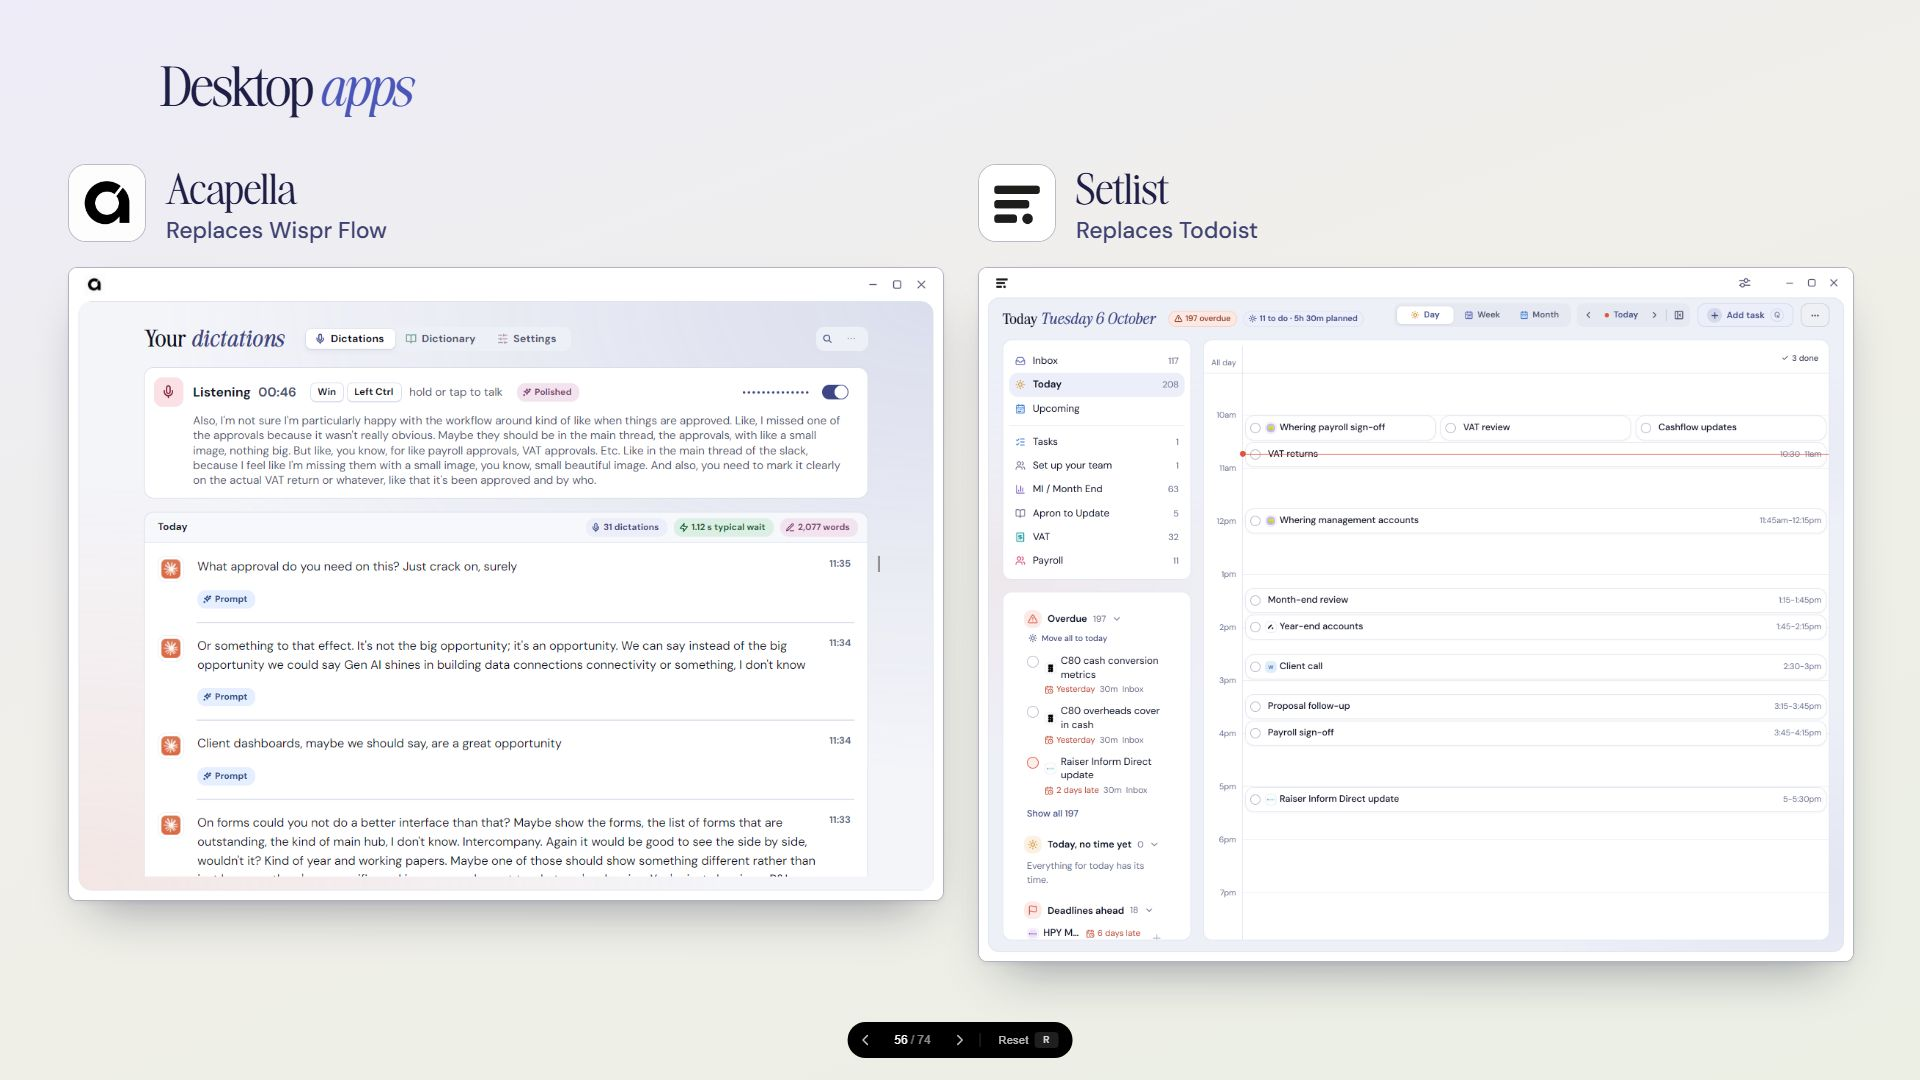
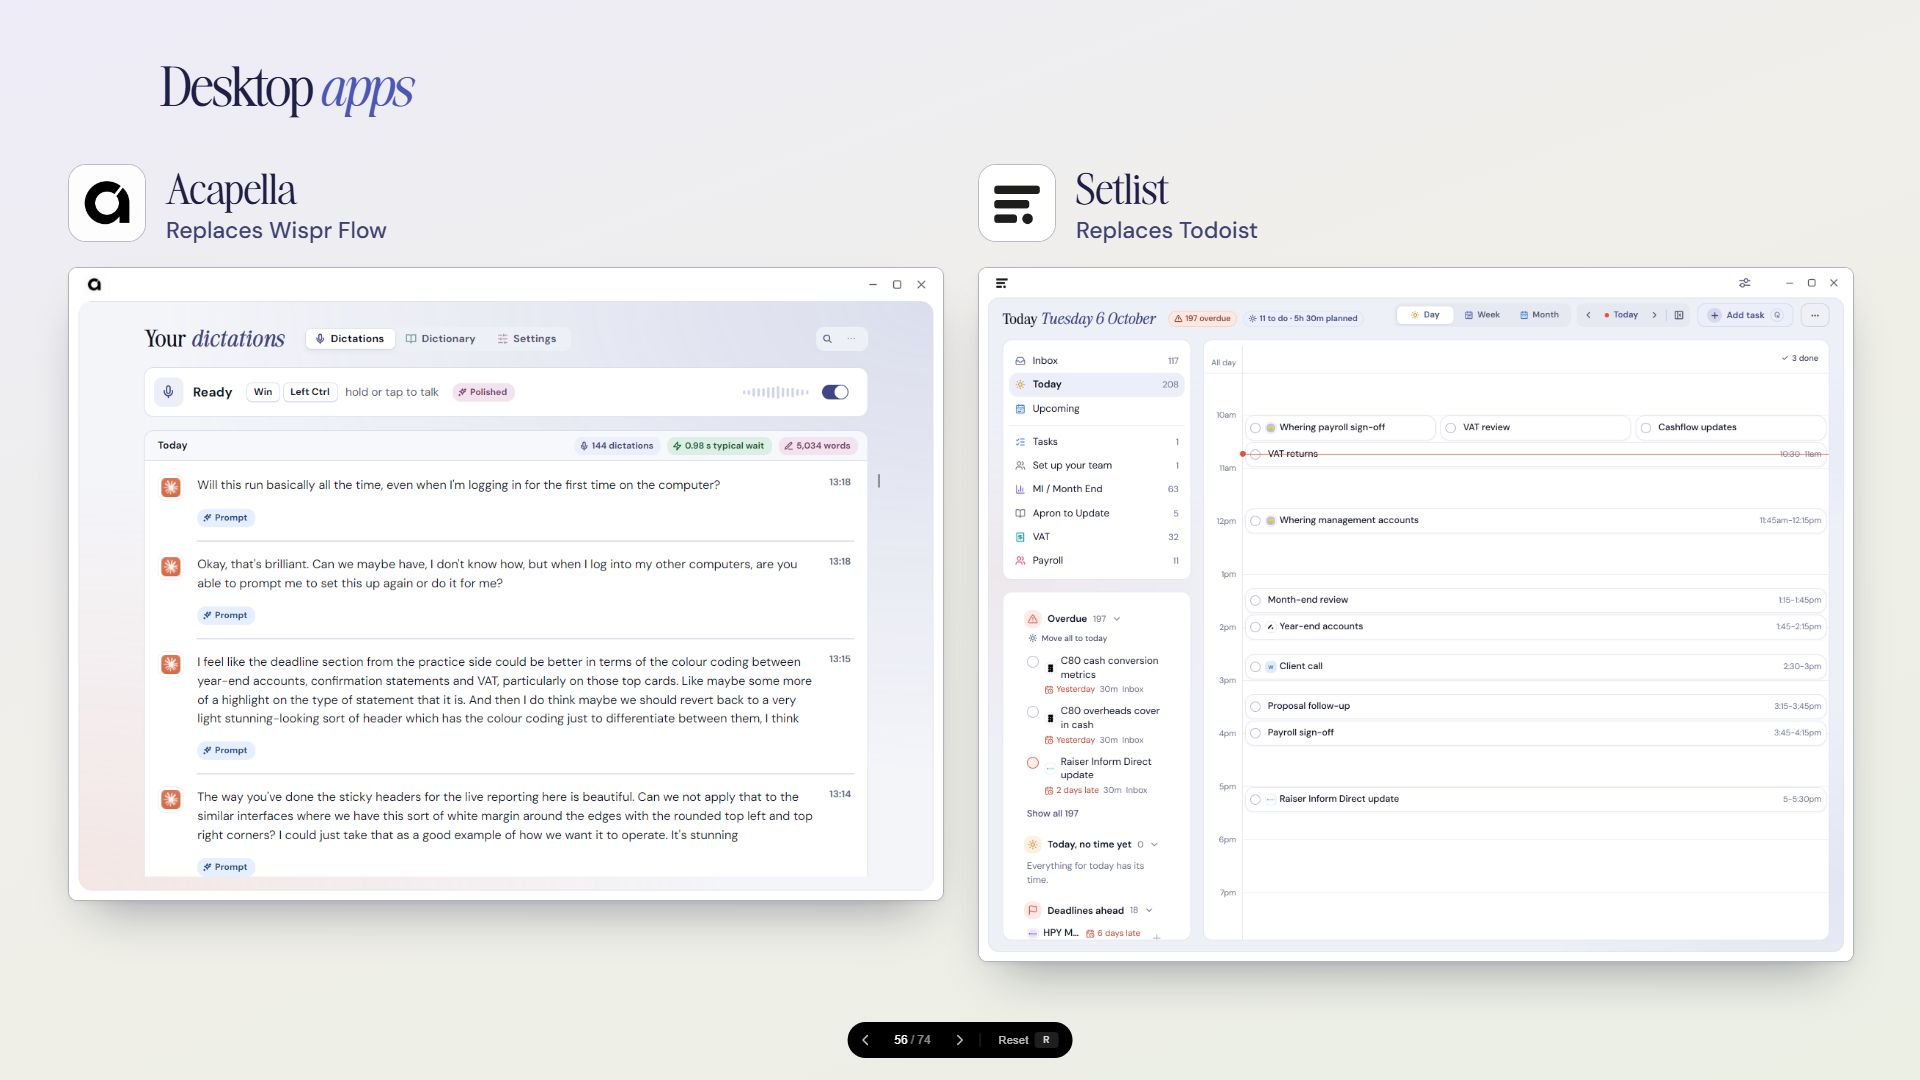
Auto Bank Wreck: a fresh Acapella window on the desktop apps slide

Changed region(s): [[0.0625, 0.3361, 0.4688, 0.825]]

diff --git a/presentations/auto-bank-wreck/index.html b/presentations/auto-bank-wreck/index.html
@@ -3167,7 +3167,7 @@ deck-stage { background: #0a0a0a; }
               <img class="dapp-mark" src="images/slides/41c-desktop-apps/acapella-icon.png" alt="">
               <div class="dapp-id"><p class="dapp-name">Acapella</p><p class="dapp-was">Replaces Wispr Flow</p></div>
             </div>
-            <img class="dapp-win" style="aspect-ratio: 1192 / 861;" src="images/slides/41c-desktop-apps/acapella-oct06.png" alt="The Acapella window: hold a key to dictate, and the day's dictations listed beneath">
+            <img class="dapp-win" style="aspect-ratio: 1192 / 861;" src="images/slides/41c-desktop-apps/acapella-oct06b.png" alt="The Acapella window: hold a key to dictate, and the day's dictations listed beneath">
           </div>
           <div class="dapp">
             <div class="dapp-head">
